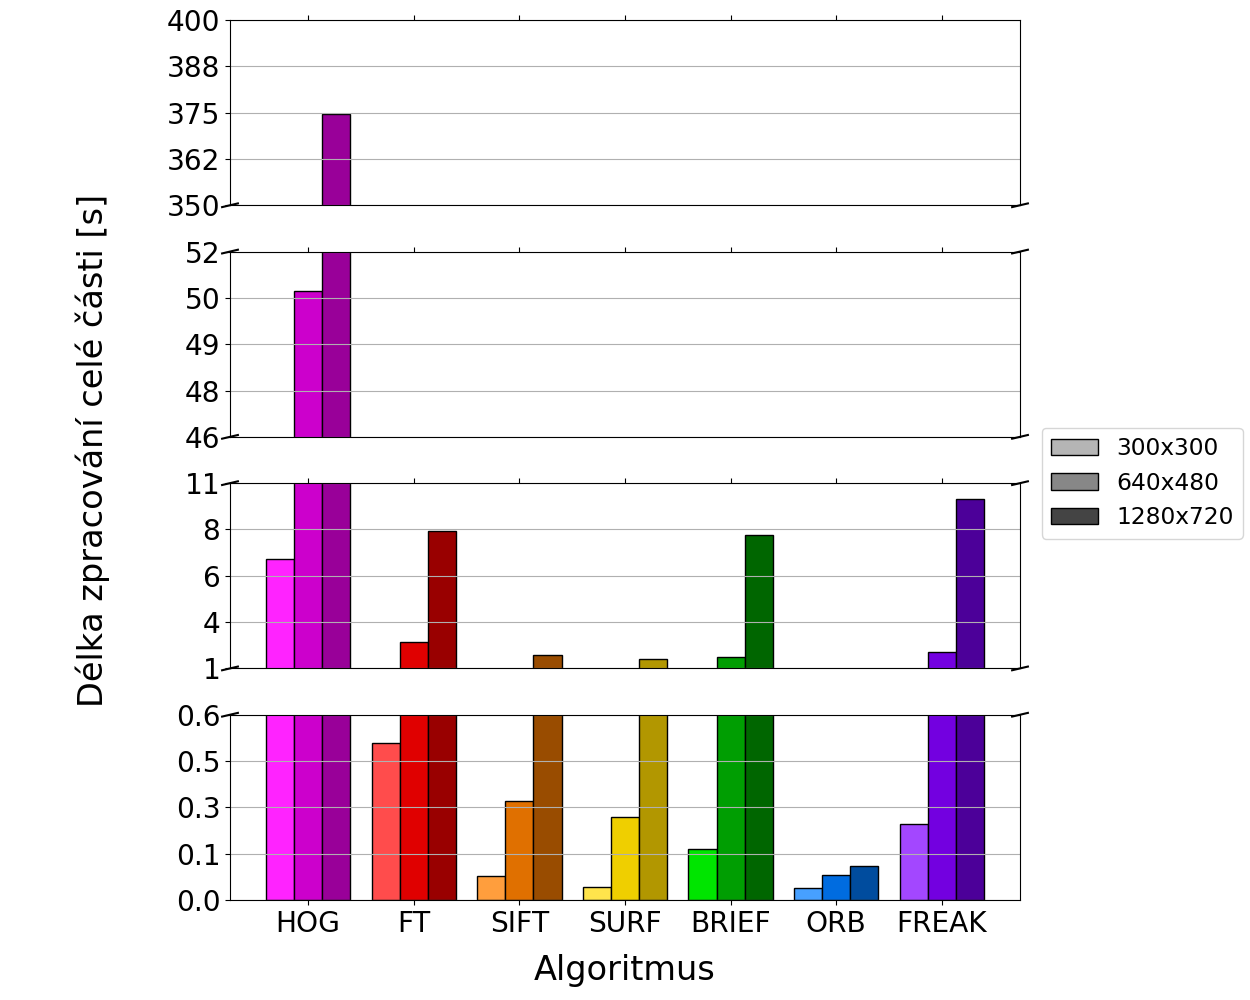
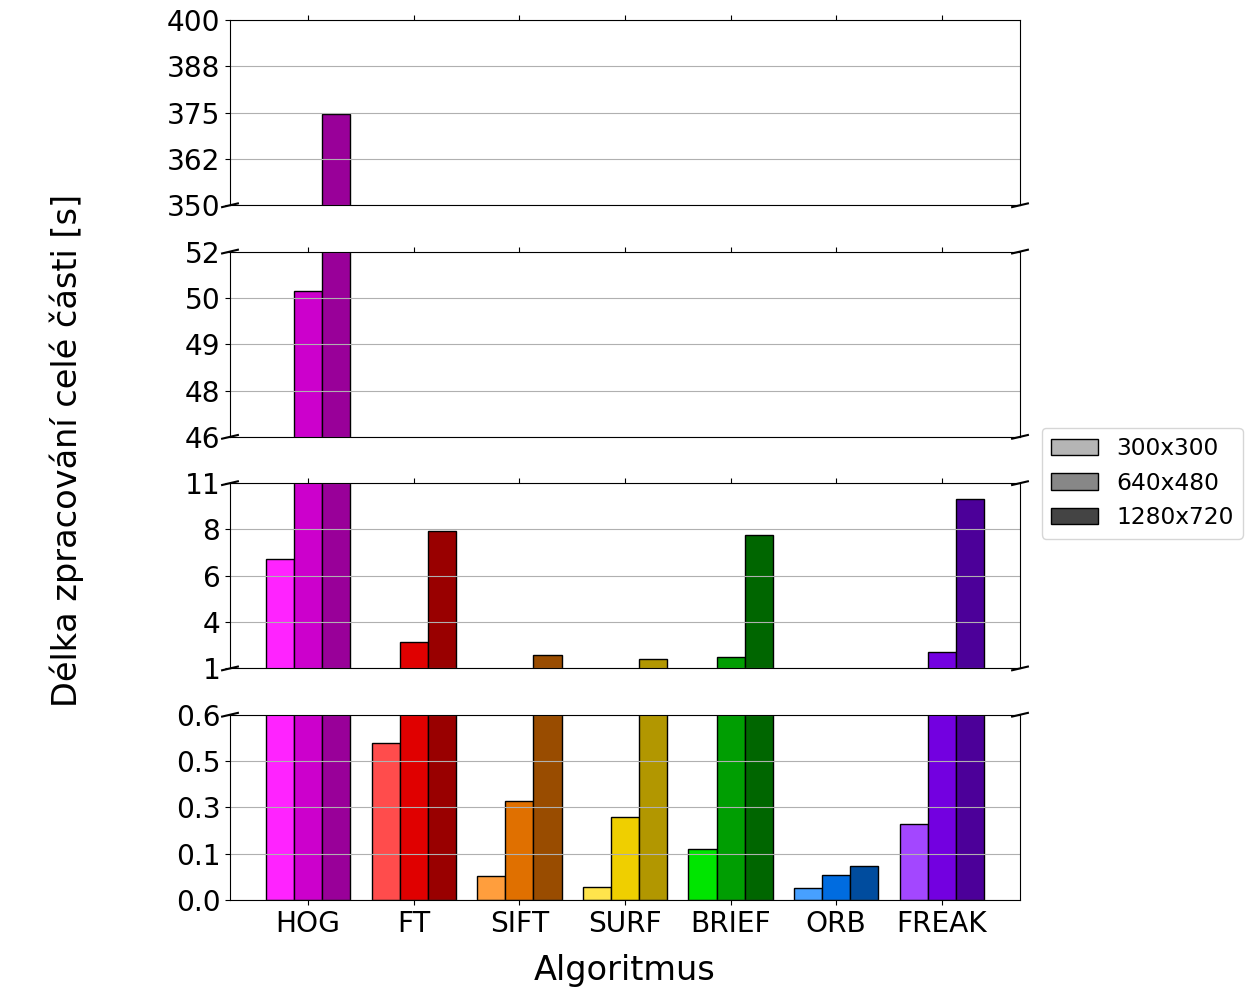
Horizontally aligned Y axis labels

Changed region(s): [[0.0312, 0.186, 0.0936, 0.713]]

diff --git a/src/scripts/charts/generateCharts3.py b/src/scripts/charts/generateCharts3.py
@@ -121,7 +121,7 @@ def accuracy(title=False, filename=None, show=False):
 
     setupXAxis(axis)
 
-    axis.set_ylabel("Přesnost [%]")
+    axis.set_ylabel("Přesnost [%]", labelpad=30)
     axis.yaxis.label.set_fontsize("xx-large")
     for tick in axis.get_yticklabels():
         tick.set_fontsize("x-large")
@@ -158,7 +158,7 @@ def partDescriptorTime(title=False, filename=None, show=False):
 
     setupXAxis(axis)
 
-    axis.set_ylabel("Délka výpočtu deskriptoru části [ms]")
+    axis.set_ylabel("Délka výpočtu deskriptoru části [ms]", labelpad=50)
     axis.yaxis.label.set_fontsize("xx-large")
     for tick in axis.get_yticklabels():
         tick.set_fontsize("x-large")
@@ -195,7 +195,7 @@ def imageDescriptorTime(title=False, filename=None, show=False):
 
     setupXAxis(bottom)
 
-    fig.text(0.07, 0.55, "Délka výpočtu deskriptoru obrázku [ms]", va="center", rotation="vertical", fontsize="xx-large")
+    fig.text(0.04, 0.55, "Délka výpočtu deskriptoru obrázku [ms]", va="center", rotation="vertical", fontsize="xx-large")
 
     for axis in [bottom, upper]:
         for tick in axis.get_yticklabels():
@@ -239,7 +239,7 @@ def partDescriptorSize(title=False, filename=None, show=False):
     if title:
         bottom.set_title("Průměrná velikost deskriptoru části", fontsize="xx-large")
 
-    fig.text(0.06, 0.55, "Průměrná velikost deskriptoru části (v tisících)", va="center", rotation="vertical", fontsize="xx-large")
+    fig.text(0.04, 0.55, "Průměrná velikost deskriptoru části (v tisících)", va="center", rotation="vertical", fontsize="xx-large")
 
     setupXAxis(bottom)
 
@@ -359,7 +359,7 @@ def matching(title=False, filename=None, show=False):
 
     setupXAxis(bottom)
 
-    fig.text(0.07, 0.55, "Délka hledání v jednom obrázku [ms]", va="center", rotation="vertical", fontsize="xx-large")
+    fig.text(0.04, 0.55, "Délka hledání v jednom obrázku [ms]", va="center", rotation="vertical", fontsize="xx-large")
 
     for axis in [bottom, middle, upper, top]:
         for tick in axis.get_yticklabels():
@@ -413,7 +413,7 @@ def partProcess(title=False, filename=None, show=False):
 
     setupXAxis(bottom)
 
-    fig.text(0.06, 0.55, "Délka zpracování celé části [s]", va="center", rotation="vertical", fontsize="xx-large")
+    fig.text(0.04, 0.55, "Délka zpracování celé části [s]", va="center", rotation="vertical", fontsize="xx-large")
 
     for axis in [bottom, middle, upper, top]:
         for tick in axis.get_yticklabels():
@@ -470,7 +470,7 @@ def totalTime(title=False, filename=None, show=False):
     if title:
         bottom.set_title("Celkový čas", fontsize="xx-large")
 
-    fig.text(0.07, 0.55, "Celkový čas [s]", va="center", rotation="vertical", fontsize="xx-large")
+    fig.text(0.04, 0.55, "Celkový čas [s]", va="center", rotation="vertical", fontsize="xx-large")
 
     setupXAxis(bottom)
 
